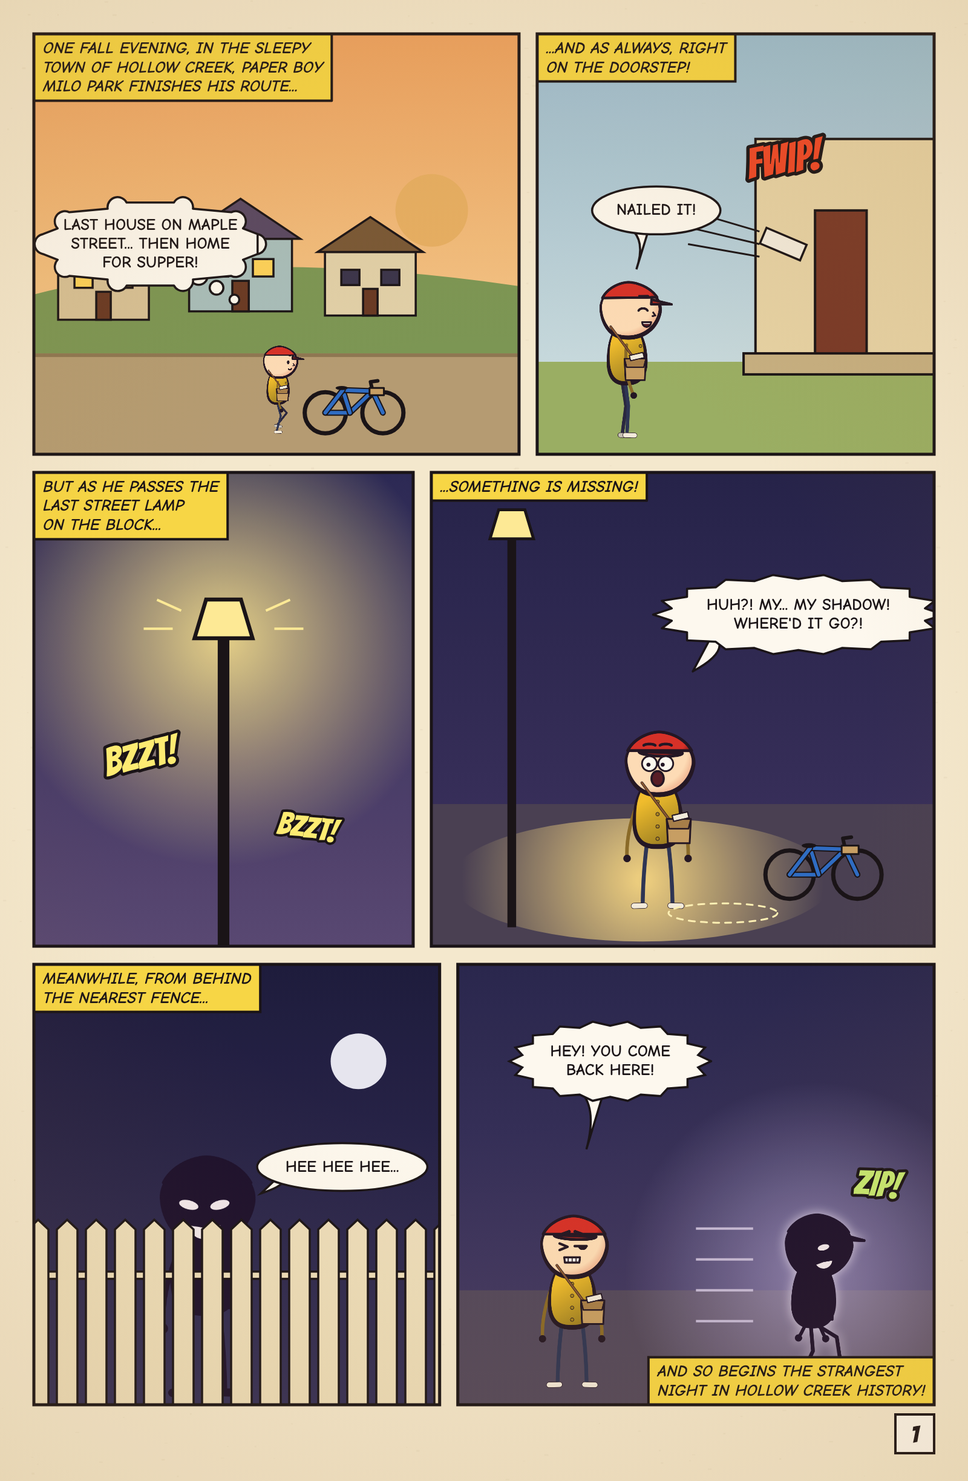
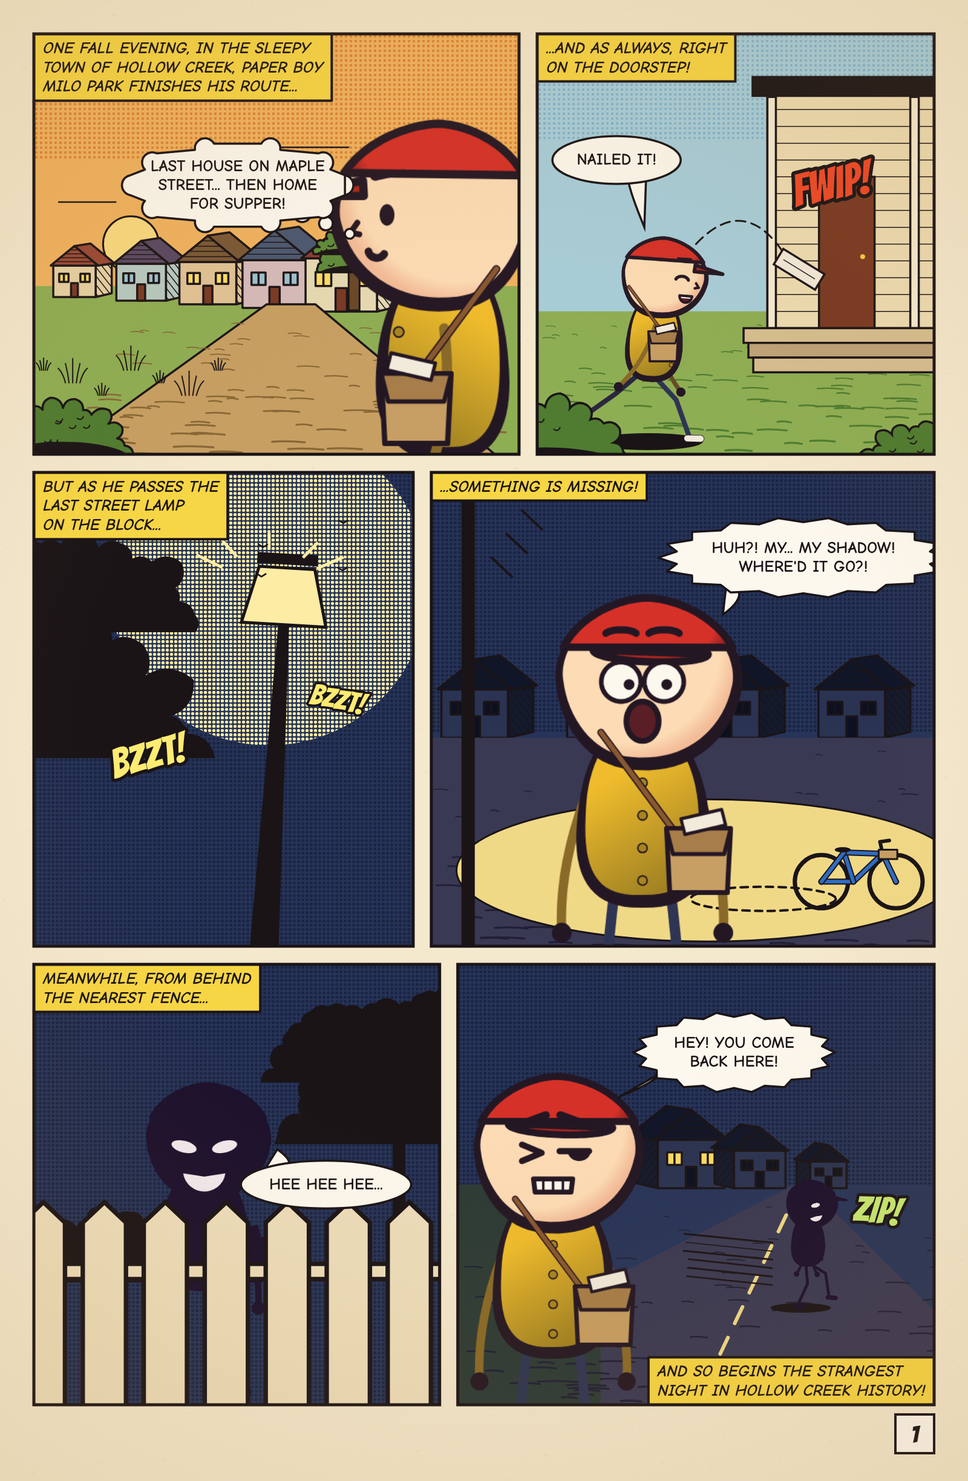
Page 1 redrawn in silver-age style: flat colour + Ben-Day tints, brush-inked ground, foliage, hatching, spotted blacks, varied shots
Claude-Session: https://claude.ai/code/session_01Q4bYRmYizte7uRdbGeQVkf

diff --git a/films/hollow-creek/page01.js b/films/hollow-creek/page01.js
@@ -1,77 +1,105 @@
 // PAGE 1: Milo finishes his route, the last street lamp flickers, his shadow is gone, it grins from behind a fence and runs.
-import { PAGE, INK, panelRect, paper, age, panel, caption, balloon, sfx, card, ground, sky, bike, house, lamp, fence, pageNumber } from './comic.js';
+// Silver-age rules (from the reference): flat colour + Ben-Day tints, no gradients; brush-inked ground, foliage clumps, hatched
+// shadow sides and spotted blacks; every panel a different shot (over-shoulder, medium, low angle, close-up, foreground
+// frame, deep street); figures big and cropped by the borders; captions flush top-left, balloons tight to the text.
+import { PAGE, INK, panelRect, paper, age, panel, caption, balloon, sfx, card, bike, lamp, fence, pageNumber,
+  benday, flat, hatch, brushGround, tuft, bush, tree, house2, spot, speed } from './comic.js';
 import { CAST, drawFront, drawSide, drawShadow, drawShadowSide } from './cast/cast.js';
 const M = CAST.milo;
+const NIGHT = '#27355f', NIGHT2 = '#1b2546';
 
 export const PANELS = [
-  // 1 (wide): establishing. Dusk on Maple Street, Milo walking his bike past the houses
+  // 1. OVER-THE-SHOULDER ESTABLISHING: huge Milo in the right foreground, back to us, looking down Maple Street at dusk
   (c, x, y, w, h, u) => {
-    sky(c, x, y, w, h, '#f0a868', '#f7d9a0');
-    c.fillStyle = '#e9b46a'; c.beginPath(); c.arc(x + w * 0.82, y + h * 0.42, 60 * u, 0, 6.283); c.fill();
-    c.fillStyle = '#7d9a5a'; c.beginPath(); c.moveTo(x, y + h * 0.62); c.quadraticCurveTo(x + w * 0.4, y + h * 0.5, x + w, y + h * 0.6); c.lineTo(x + w, y + h); c.lineTo(x, y + h); c.fill();
-    house(c, x + w * 0.05, y + h * 0.68, 150 * u, 110 * u, u, '#d9c7a0', '#9a4a3a');
-    house(c, x + w * 0.32, y + h * 0.66, 170 * u, 120 * u, u, '#a9c4c8', '#5a4a6a');
-    house(c, x + w * 0.6, y + h * 0.67, 150 * u, 105 * u, u, '#e3d6b4', '#7a5a3a', false);
-    ground(c, x, y, w, h, y + h * 0.76, '#b7a07a'); c.fillStyle = '#8f7a58'; c.fillRect(x, y + h * 0.76, w, 6 * u);
-    bike(c, x + w * 0.66, y + h * 0.95, 34 * u, u);
-    card(c, drawSide(M, { mode: 'march', phase: 0.25, expr: 'smile' }), x + w * 0.5, y + h * 0.95, 170 * u);
+    flat(c, x, y, w, h * 0.62, '#f2b866'); c.fillStyle = benday(c, '#e0883a', '#f2b866', 8, 2.2); c.fillRect(x, y, w, h * 0.3);   // dusk sky, tinted band
+    c.fillStyle = '#fbe08a'; c.beginPath(); c.arc(x + w * 0.2, y + h * 0.5, 46 * u, 0, 6.283); c.fill(); c.lineWidth = 3 * u; c.strokeStyle = INK; c.stroke();
+    c.lineWidth = 2.5 * u; for (const [a, b, l] of [[0.05, 0.4, 0.12], [0.5, 0.27, 0.15]]) { c.beginPath(); c.moveTo(x + w * a, y + h * b); c.lineTo(x + w * (a + l), y + h * b); c.stroke(); }   // cloud streaks
+    const hz = y + h * 0.6;
+    flat(c, x, hz, w, h - (hz - y), '#8fb35a');
+    for (let i = 0; i < 5; i++) house2(c, x + w * (0.04 + i * 0.13), hz + 18 * u + i * 6 * u, (70 + i * 12) * u, (52 + i * 9) * u, u, ['#e8d8b0', '#b9d0d0', '#e3c9a0', '#d8c0c8', '#e8e0c0'][i], ['#9a4a3a', '#5a4a6a', '#7a5a3a', '#4a5a7a', '#8a3a3a'][i], 1, i % 2 === 0);
+    tree(c, x + w * 0.66, hz + 40 * u, 150 * u, u, '#5f8f3e', 3);
+    c.fillStyle = '#c9a46a'; c.beginPath(); c.moveTo(x + w * 0.48, hz + 30 * u); c.lineTo(x + w * 0.58, hz + 30 * u); c.lineTo(x + w * 0.95, y + h); c.lineTo(x + w * 0.05, y + h); c.closePath(); c.fill(); c.lineWidth = 3.5 * u; c.strokeStyle = INK; c.stroke();   // the street running away
+    brushGround(c, x + w * 0.1, hz + 40 * u, w * 0.8, y + h, u, 11, '#8a6a3a');
+    for (let i = 0; i < 7; i++) tuft(c, x + w * (0.02 + i * 0.06), y + h * (0.8 + 0.03 * (i % 3)), 1 + (i % 2), u);
+    bush(c, x + w * 0.06, y + h * 1.0, 90 * u, u, '#4f7f34', 5);
+    card(c, drawSide(M, { mode: 'stand', expr: 'smile' }), x + w * 0.86, y + h * 1.42, 980 * u, true);   // cropped at the chest by the border
     caption(c, ['ONE FALL EVENING, IN THE SLEEPY', 'TOWN OF HOLLOW CREEK, PAPER BOY', 'MILO PARK FINISHES HIS ROUTE...'], x, y, w, h, u);
-    balloon(c, ['LAST HOUSE ON MAPLE', 'STREET... THEN HOME', 'FOR SUPPER!'], x + w * 0.24, y + h * 0.5, x + w * 0.45, y + h * 0.66, u, 'think');
+    balloon(c, ['LAST HOUSE ON MAPLE', 'STREET... THEN HOME', 'FOR SUPPER!'], x + w * 0.42, y + h * 0.36, x + w * 0.7, y + h * 0.5, u, 'think');
   },
-  // 2: the throw. A porch, the paper flying, FWIP!
+  // 2. MEDIUM, ACTION: Milo flings the paper across the lawn at a porch drawn in perspective; foreground bushes frame it
   (c, x, y, w, h, u) => {
-    sky(c, x, y, w, h, '#9cc3e0', '#d5e6ef'); ground(c, x, y, w, h, y + h * 0.78, '#9bb36a');
-    c.fillStyle = '#e8d8b0'; c.fillRect(x + w * 0.55, y + h * 0.25, w * 0.5, h * 0.55); c.lineWidth = 4 * u; c.strokeStyle = INK; c.strokeRect(x + w * 0.55, y + h * 0.25, w * 0.5, h * 0.55);
-    c.fillStyle = '#7a3a2a'; c.fillRect(x + w * 0.7, y + h * 0.42, w * 0.13, h * 0.38); c.strokeRect(x + w * 0.7, y + h * 0.42, w * 0.13, h * 0.38);
-    c.fillStyle = '#c8b48a'; c.fillRect(x + w * 0.52, y + h * 0.76, w * 0.5, h * 0.05); c.strokeRect(x + w * 0.52, y + h * 0.76, w * 0.5, h * 0.05);
-    card(c, drawSide(M, { mode: 'stand', expr: 'grin' }), x + w * 0.22, y + h * 0.96, 300 * u);
-    c.save(); c.translate(x + w * 0.62, y + h * 0.5); c.rotate(0.4); c.fillStyle = '#f4f1ea'; c.fillRect(-36 * u, -14 * u, 72 * u, 28 * u); c.lineWidth = 3.5 * u; c.strokeRect(-36 * u, -14 * u, 72 * u, 28 * u); c.restore();
-    c.lineWidth = 3 * u; for (let i = 0; i < 3; i++) { c.beginPath(); c.moveTo(x + w * 0.38, y + h * (0.42 + i * 0.04)); c.lineTo(x + w * 0.56, y + h * (0.47 + i * 0.03)); c.stroke(); }
-    sfx(c, 'FWIP!', x + w * 0.62, y + h * 0.3, 70 * u, '#f04a2a');
+    flat(c, x, y, w, h, '#a9d4ea'); c.fillStyle = benday(c, '#7fb8dc', '#a9d4ea', 8, 2); c.fillRect(x, y, w, h * 0.25);
+    flat(c, x, y + h * 0.66, w, h * 0.34, '#8fb35a'); brushGround(c, x, y + h * 0.68, w, y + h, u, 5, '#4f7f34');
+    const px = x + w * 0.58;   // porch: front face, posts, steps, door, a dark open doorway shadow
+    c.fillStyle = '#efe2bf'; c.fillRect(px, y + h * 0.14, w * 0.5, h * 0.56); c.lineWidth = 3.5 * u; c.strokeStyle = INK; c.strokeRect(px, y + h * 0.14, w * 0.5, h * 0.56);
+    c.save(); c.beginPath(); c.rect(px, y + h * 0.14, w * 0.5, h * 0.56); c.clip(); c.lineWidth = 1.5 * u; for (let i = 1; i < 14; i++) { c.beginPath(); c.moveTo(px, y + h * 0.14 + i * h * 0.04); c.lineTo(px + w * 0.5, y + h * 0.14 + i * h * 0.04); c.stroke(); } c.restore();   // clapboards
+    c.fillStyle = '#7a3a26'; c.fillRect(px + w * 0.13, y + h * 0.34, w * 0.14, h * 0.36); c.strokeRect(px + w * 0.13, y + h * 0.34, w * 0.14, h * 0.36); c.fillStyle = '#ffd04a'; c.beginPath(); c.arc(px + w * 0.24, y + h * 0.53, 4 * u, 0, 6.283); c.fill();
+    c.fillStyle = INK; c.fillRect(px - w * 0.04, y + h * 0.1, w * 0.6, h * 0.05);   // porch roof edge, black
+    for (const f of [0, 0.36]) { c.fillStyle = '#f8f2e0'; c.fillRect(px + w * f, y + h * 0.15, 14 * u, h * 0.55); c.strokeRect(px + w * f, y + h * 0.15, 14 * u, h * 0.55); }
+    for (let i = 0; i < 3; i++) { c.fillStyle = i % 2 ? '#bfa880' : '#d8c49a'; c.fillRect(px - w * 0.06 + i * 8 * u, y + h * (0.7 + i * 0.035), w * 0.6, h * 0.035); c.strokeRect(px - w * 0.06 + i * 8 * u, y + h * (0.7 + i * 0.035), w * 0.6, h * 0.035); }
+    spot(c, x + w * 0.28, y + h * 0.97, 90 * u, 14 * u);
+    card(c, drawSide(M, { mode: 'march', phase: 0.1, expr: 'grin' }), x + w * 0.28, y + h * 0.97, 420 * u);
+    c.save(); c.translate(x + w * 0.66, y + h * 0.56); c.rotate(0.55); c.fillStyle = '#f4f1ea'; c.fillRect(-40 * u, -15 * u, 80 * u, 30 * u); c.lineWidth = 3.5 * u; c.strokeRect(-40 * u, -15 * u, 80 * u, 30 * u); c.lineWidth = 1.5 * u; c.beginPath(); c.moveTo(-30 * u, 0); c.lineTo(30 * u, 0); c.stroke(); c.restore();
+    c.lineWidth = 3 * u; c.strokeStyle = INK; c.setLineDash([16 * u, 10 * u]); c.beginPath(); c.moveTo(x + w * 0.4, y + h * 0.5); c.quadraticCurveTo(x + w * 0.52, y + h * 0.38, x + w * 0.62, y + h * 0.52); c.stroke(); c.setLineDash([]);   // motion arc
+    bush(c, x + w * 0.02, y + h * 1.02, 110 * u, u, '#4f7f34', 8); bush(c, x + w * 0.96, y + h * 1.04, 80 * u, u, '#4f7f34', 13);
+    sfx(c, 'FWIP!', x + w * 0.74, y + h * 0.36, 74 * u, '#f04a2a', -0.2);
     caption(c, ['...AND AS ALWAYS, RIGHT', 'ON THE DOORSTEP!'], x, y, w, h, u, 'tl', 0.8);
-    balloon(c, ['NAILED IT!'], x + w * 0.3, y + h * 0.42, x + w * 0.25, y + h * 0.56, u);
+    balloon(c, ['NAILED IT!'], x + w * 0.2, y + h * 0.3, x + w * 0.27, y + h * 0.46, u);
   },
-  // 3 (narrow): the last street lamp flickers
+  // 3. LOW ANGLE: looking straight up the lamp post at night; moths, flicker strokes, black tree silhouettes framing
   (c, x, y, w, h, u) => {
-    sky(c, x, y, w, h, '#2c2a5a', '#5a4a7a');
-    const g = c.createRadialGradient(x + w * 0.5, y + h * 0.35, 10, x + w * 0.5, y + h * 0.35, w * 0.6); g.addColorStop(0, 'rgba(255,236,150,0.85)'); g.addColorStop(1, 'rgba(255,236,150,0)'); c.fillStyle = g; c.fillRect(x, y, w, h);
-    lamp(c, x + w * 0.5, y + h * 1.05, h * 0.7, u * 1.6);
-    c.lineWidth = 4 * u; c.strokeStyle = '#fff0a0'; for (const [a, b] of [[-1, -0.6], [1, -0.6], [-1.2, 0], [1.2, 0]]) { c.beginPath(); c.moveTo(x + w * 0.5 + a * 70 * u, y + h * 0.33 + b * 50 * u); c.lineTo(x + w * 0.5 + a * 110 * u, y + h * 0.33 + b * 80 * u); c.stroke(); }
-    sfx(c, 'BZZT!', x + w * 0.28, y + h * 0.6, 64 * u, '#fff27a', -0.2);
-    sfx(c, 'BZZT!', x + w * 0.72, y + h * 0.75, 52 * u, '#fff27a', 0.15);
+    flat(c, x, y, w, h, NIGHT); c.fillStyle = benday(c, NIGHT2, NIGHT, 7, 2.4); c.fillRect(x, y, w, h);
+    c.fillStyle = benday(c, '#fff3b0', NIGHT, 7, 2.6); c.beginPath(); c.arc(x + w * 0.62, y + h * 0.24, w * 0.42, 0, 6.283); c.fill();   // the glow, as a Ben-Day halo
+    c.save(); c.translate(x + w * 0.6, y + h * 1.1); c.rotate(0.06);   // the post converging upward
+    c.beginPath(); c.moveTo(-26 * u, 0); c.lineTo(-9 * u, -h * 0.78); c.lineTo(9 * u, -h * 0.78); c.lineTo(26 * u, 0); c.closePath(); c.fillStyle = INK; c.fill();
+    c.beginPath(); c.moveTo(-70 * u, -h * 0.78); c.lineTo(70 * u, -h * 0.78); c.lineTo(46 * u, -h * 0.9); c.lineTo(-46 * u, -h * 0.9); c.closePath(); c.fillStyle = '#fff3b0'; c.fill(); c.lineWidth = 5 * u; c.strokeStyle = INK; c.stroke();
+    c.fillStyle = INK; c.fillRect(-50 * u, -h * 0.93, 100 * u, 18 * u); c.restore();
+    c.strokeStyle = '#fff3b0'; c.lineWidth = 5 * u; for (const [a, l] of [[-2.6, 1], [-2.2, 0.8], [-0.5, 1], [-0.9, 0.8], [-1.57, 0.7]]) { const cx = x + w * 0.62, cy = y + h * 0.24; c.beginPath(); c.moveTo(cx + Math.cos(a) * 90 * u, cy + Math.sin(a) * 60 * u); c.lineTo(cx + Math.cos(a) * (90 + 50 * l) * u, cy + Math.sin(a) * (60 + 40 * l) * u); c.stroke(); }
+    for (let i = 0; i < 6; i++) { const mx = x + w * (0.35 + 0.5 * Math.sin(i * 2.1) * 0.5 + 0.25), my = y + h * (0.12 + 0.1 * Math.cos(i * 1.7)); c.strokeStyle = INK; c.lineWidth = 2.5 * u; c.beginPath(); c.moveTo(mx - 8 * u, my - 5 * u); c.lineTo(mx, my); c.lineTo(mx + 8 * u, my - 5 * u); c.stroke(); }   // moths
+    tree(c, x - w * 0.02, y + h * 1.0, h * 0.95, u, INK, 21, true);
+    sfx(c, 'BZZT!', x + w * 0.3, y + h * 0.6, 66 * u, '#fff27a', -0.25);
+    sfx(c, 'BZZT!', x + w * 0.8, y + h * 0.48, 48 * u, '#fff27a', 0.2);
     caption(c, ['BUT AS HE PASSES THE', 'LAST STREET LAMP', 'ON THE BLOCK...'], x, y, w, h, u, 'tl', 0.9);
   },
-  // 4 (wide): the missing shadow. Milo in the lamp pool, nothing on the ground behind him
+  // 4. CLOSE-UP, THE REVEAL: Milo big, cropped at the knees, staring down; the lamp pool behind him is empty
   (c, x, y, w, h, u) => {
-    sky(c, x, y, w, h, '#26244e', '#3e3466'); ground(c, x, y, w, h, y + h * 0.7, '#4a4258');
-    const g = c.createRadialGradient(x + w * 0.42, y + h * 0.86, 10, x + w * 0.42, y + h * 0.86, w * 0.36); g.addColorStop(0, 'rgba(255,226,140,0.9)'); g.addColorStop(1, 'rgba(255,226,140,0)');
-    c.fillStyle = g; c.beginPath(); c.ellipse(x + w * 0.42, y + h * 0.86, w * 0.38, h * 0.13, 0, 0, 6.283); c.fill();
-    lamp(c, x + w * 0.16, y + h * 0.96, h * 0.82, u * 1.2);
-    bike(c, x + w * 0.78, y + h * 0.9, 40 * u, u);
-    card(c, drawFront(M, { expr: 'shock', look: -1 }), x + w * 0.45, y + h * 0.92, 340 * u);
-    c.setLineDash([10 * u, 10 * u]); c.lineWidth = 3 * u; c.strokeStyle = '#fff6c0'; c.beginPath(); c.ellipse(x + w * 0.58, y + h * 0.93, 90 * u, 16 * u, 0, 0, 6.283); c.stroke(); c.setLineDash([]);   // where the shadow should be
+    flat(c, x, y, w, h, NIGHT); c.fillStyle = benday(c, NIGHT2, NIGHT, 7, 2.4); c.fillRect(x, y, w, h * 0.55);
+    for (let i = 0; i < 4; i++) house2(c, x + w * (0.02 + i * 0.25), y + h * 0.56, 110 * u, 80 * u, u, '#2a3458', '#10152a', 1, i === 1, true);
+    flat(c, x, y + h * 0.56, w, h * 0.44, '#3a3a5a'); brushGround(c, x, y + h * 0.58, w, y + h, u, 21, '#20203a');
+    c.fillStyle = '#f2df90'; c.beginPath(); c.ellipse(x + w * 0.55, y + h * 0.84, w * 0.5, h * 0.15, 0, 0, 6.283); c.fill(); c.lineWidth = 3 * u; c.strokeStyle = INK; c.stroke();   // the lamp pool, flat
+    c.fillStyle = INK; c.fillRect(x + w * 0.06, y, 22 * u, h);   // the lamp post, foreground left
+    bike(c, x + w * 0.85, y + h * 0.92, 44 * u, u);
+    c.save(); c.setLineDash([12 * u, 9 * u]); c.lineWidth = 4 * u; c.strokeStyle = INK; c.beginPath(); c.ellipse(x + w * 0.66, y + h * 0.9, 120 * u, 20 * u, 0, 0, 6.283); c.stroke(); c.restore();   // where his shadow should be
+    card(c, drawFront(M, { expr: 'shock', look: 1 }), x + w * 0.42, y + h * 1.25, 900 * u);
+    for (let i = 0; i < 3; i++) { c.lineWidth = 4 * u; c.strokeStyle = INK; c.beginPath(); c.moveTo(x + w * (0.22 - i * 0.03), y + h * (0.12 + i * 0.05)); c.lineTo(x + w * (0.18 - i * 0.03), y + h * (0.08 + i * 0.05)); c.stroke(); }   // shock ticks
     caption(c, ['...SOMETHING IS MISSING!'], x, y, w, h, u, 'tl');
-    balloon(c, ['HUH?! MY... MY SHADOW!', "WHERE'D IT GO?!"], x + w * 0.73, y + h * 0.3, x + w * 0.52, y + h * 0.42, u, 'shout');
+    balloon(c, ['HUH?! MY... MY SHADOW!', "WHERE'D IT GO?!"], x + w * 0.74, y + h * 0.18, x + w * 0.58, y + h * 0.3, u, 'shout');
   },
-  // 5: behind the picket fence, the Shadow peeks and grins
+  // 5. FOREGROUND FRAME: big pickets cut the panel; between them, close, the Shadow's grin under a flat moon
   (c, x, y, w, h, u) => {
-    sky(c, x, y, w, h, '#1e1c40', '#34305e');
-    c.fillStyle = '#e8ecff'; c.beginPath(); c.arc(x + w * 0.8, y + h * 0.22, 46 * u, 0, 6.283); c.fill();
-    card(c, drawShadow(), x + w * 0.42, y + h * 0.98, 460 * u);
-    fence(c, x - 10 * u, x + w + 10 * u, y + h, h * 0.42, u);
+    flat(c, x, y, w, h, NIGHT); c.fillStyle = benday(c, NIGHT2, NIGHT, 7, 2.4); c.fillRect(x, y, w, h);
+    c.fillStyle = '#f4f0d0'; c.beginPath(); c.arc(x + w * 0.78, y + h * 0.24, 56 * u, 0, 6.283); c.fill(); c.lineWidth = 3 * u; c.strokeStyle = INK; c.stroke();
+    tree(c, x + w * 0.9, y + h * 0.7, h * 0.7, u, INK, 30, true); bush(c, x + w * 0.2, y + h * 0.72, 120 * u, u, INK, 31);
+    card(c, drawShadow(), x + w * 0.42, y + h * 0.98, 600 * u);
+    fence(c, x - 20 * u, x + w + 20 * u, y + h * 1.04, h * 0.5, u * 2.1, '#efe4c8');
     caption(c, ['MEANWHILE, FROM BEHIND', 'THE NEAREST FENCE...'], x, y, w, h, u, 'tl', 0.8);
-    balloon(c, ['HEE HEE HEE...'], x + w * 0.76, y + h * 0.46, x + w * 0.56, y + h * 0.52, u);
+    balloon(c, ['HEE HEE HEE...'], x + w * 0.72, y + h * 0.5, x + w * 0.6, y + h * 0.42, u);
   },
-  // 6: the chase begins. The Shadow runs off screen-right, Milo shouts after it
+  // 6. DEEP STREET, THE CHASE: Milo shouting in the left foreground, the Shadow racing away down the street with speed lines
   (c, x, y, w, h, u) => {
-    sky(c, x, y, w, h, '#2a2852', '#463c6e'); ground(c, x, y, w, h, y + h * 0.74, '#544a62');
-    const gl = c.createRadialGradient(x + w * 0.75, y + h * 0.7, 10, x + w * 0.75, y + h * 0.7, w * 0.4); gl.addColorStop(0, 'rgba(200,190,255,0.55)'); gl.addColorStop(1, 'rgba(200,190,255,0)'); c.fillStyle = gl; c.fillRect(x, y, w, h);
-    c.lineWidth = 4 * u; c.strokeStyle = '#c8c0e8'; for (let i = 0; i < 4; i++) { c.beginPath(); c.moveTo(x + w * 0.5, y + h * (0.6 + i * 0.07)); c.lineTo(x + w * 0.62, y + h * (0.6 + i * 0.07)); c.stroke(); }
-    c.save(); c.shadowColor = 'rgba(230,225,255,0.9)'; c.shadowBlur = 18 * u; card(c, drawShadowSide({ phase: 0.3 }), x + w * 0.74, y + h * 0.95, 330 * u); c.restore();
-    card(c, drawFront(M, { expr: 'pained', look: 1 }), x + w * 0.24, y + h * 0.96, 330 * u);
-    sfx(c, 'ZIP!', x + w * 0.88, y + h * 0.5, 60 * u, '#c9f07a', 0.1);
+    flat(c, x, y, w, h, NIGHT); c.fillStyle = benday(c, NIGHT2, NIGHT, 7, 2.4); c.fillRect(x, y, w, h * 0.5);
+    const vx = x + w * 0.72, vy = y + h * 0.5;   // vanishing point
+    for (let i = 0; i < 3; i++) house2(c, x + w * (0.42 + i * 0.16), vy + 6 * u, (110 - i * 25) * u, (80 - i * 18) * u, u, '#2a3458', '#10152a', -1, i === 0, true);
+    c.fillStyle = '#3a3a5a'; c.beginPath(); c.moveTo(vx - 10 * u, vy); c.lineTo(vx + 10 * u, vy); c.lineTo(x + w * 1.2, y + h); c.lineTo(x - w * 0.2, y + h); c.closePath(); c.fill();
+    flat(c, x, vy, w * 0.3, h * 0.5, '#2c3c3a'); brushGround(c, x, vy + 10 * u, w, y + h, u, 41, '#20203a');
+    c.strokeStyle = '#f2df90'; c.lineWidth = 6 * u; c.setLineDash([30 * u, 26 * u]); c.beginPath(); c.moveTo(vx, vy); c.lineTo(x + w * 0.5, y + h); c.stroke(); c.setLineDash([]);   // centre line
+    speed(c, x + w * 0.46, y + h * 0.66, x + w * 0.66, y + h * 0.68, 6, 14, u);
+    spot(c, x + w * 0.72, y + h * 0.78, 50 * u, 8 * u);
+    card(c, drawShadowSide({ phase: 0.3 }), x + w * 0.73, y + h * 0.78, 250 * u);
+    card(c, drawFront(M, { expr: 'pained', look: 1 }), x + w * 0.2, y + h * 1.22, 820 * u);
+    sfx(c, 'ZIP!', x + w * 0.88, y + h * 0.56, 62 * u, '#c9f07a', 0.1);
     caption(c, ['AND SO BEGINS THE STRANGEST', 'NIGHT IN HOLLOW CREEK HISTORY!'], x, y, w, h, u, 'br', 0.9);
-    balloon(c, ['HEY! YOU COME', 'BACK HERE!'], x + w * 0.32, y + h * 0.22, x + w * 0.27, y + h * 0.42, u, 'shout');
+    balloon(c, ['HEY! YOU COME', 'BACK HERE!'], x + w * 0.58, y + h * 0.2, x + w * 0.34, y + h * 0.3, u, 'shout');
   },
 ];
 // one panel at any size (used for the hi-res plane the camera pushes into)

diff --git a/films/hollow-creek/comic.js b/films/hollow-creek/comic.js
@@ -96,3 +96,62 @@ export function pageNumber(c, n, W, H) {
   const s = 64; c.fillStyle = '#fff'; c.fillRect(W - PAGE.m - s, H - PAGE.m - s + 10, s, s); c.lineWidth = 4; c.strokeStyle = INK; c.strokeRect(W - PAGE.m - s, H - PAGE.m - s + 10, s, s);
   c.font = '40px Bangers'; c.fillStyle = INK; c.textAlign = 'center'; c.textBaseline = 'middle'; c.fillText(String(n), W - PAGE.m - s / 2, H - PAGE.m - s / 2 + 12);
 }
+
+// ======== silver-age inking kit: flat colour, Ben-Day tints, brush texture, spotted blacks (no gradients, no glows) ========
+const patCache = new Map();
+// Ben-Day tint: dots of `col` on `bg`, a fixed screen like a 1960s colour separation
+export function benday(c, col, bg, step = 7, r = 1.6) {
+  const key = col + bg + step + r; if (patCache.has(key)) return patCache.get(key);
+  const t = Object.assign(document.createElement('canvas'), { width: step * 2, height: step * 2 }), g = t.getContext('2d');
+  g.fillStyle = bg; g.fillRect(0, 0, step * 2, step * 2); g.fillStyle = col;
+  for (const [x, y] of [[step / 2, step / 2], [step * 1.5, step * 1.5], [step * 1.5, step / 2 - step], [step / 2, step * 1.5]]) { g.beginPath(); g.arc(x, y, r, 0, 6.283); g.fill(); }
+  g.beginPath(); g.arc(step * 1.5, step / 2, r, 0, 6.283); g.fill(); g.beginPath(); g.arc(step / 2, step * 1.5, r, 0, 6.283); g.fill();
+  const p = c.createPattern(t, 'repeat'); patCache.set(key, p); return p;
+}
+export function flat(c, x, y, w, h, col) { c.fillStyle = col; c.fillRect(x, y, w, h); }
+// parallel ink hatching inside a rectangle (shadow sides, skies, dusk)
+export function hatch(c, x, y, w, h, u, ang = -0.6, gap = 12, lw = 2) {
+  c.save(); c.beginPath(); c.rect(x, y, w, h); c.clip(); c.strokeStyle = INK; c.lineWidth = lw * u; c.lineCap = 'round';
+  const d = Math.hypot(w, h), cx = x + w / 2, cy = y + h / 2, ca = Math.cos(ang), sa = Math.sin(ang);
+  for (let k = -d; k < d; k += gap * u) { c.beginPath(); c.moveTo(cx - ca * d - sa * k, cy - sa * d + ca * k); c.lineTo(cx + ca * d - sa * k, cy + sa * d + ca * k); c.stroke(); }
+  c.restore();
+}
+// brush dashes on a ground plane, longer and denser towards the viewer: reads as earth/asphalt with perspective
+export function brushGround(c, x, y0, w, y1, u, seed = 1, col = INK) {
+  c.strokeStyle = col; c.lineCap = 'round';
+  for (let i = 0; i < 90; i++) {
+    const k = hh(seed * 31 + i), yy = y0 + (y1 - y0) * Math.pow(hh(seed * 17 + i), 0.7), near = (yy - y0) / (y1 - y0 + 1e-6);
+    const len = (10 + 40 * near) * u * (0.5 + k), xx = x + hh(seed * 7 + i) * w; c.lineWidth = (1.2 + 2.2 * near) * u;
+    c.beginPath(); c.moveTo(xx, yy); c.quadraticCurveTo(xx + len / 2, yy - 2 * u, xx + len, yy + 1 * u); c.stroke();
+  }
+}
+export function tuft(c, x, y, s, u) { c.strokeStyle = INK; c.lineWidth = 2 * u; c.lineCap = 'round'; for (let i = -2; i <= 2; i++) { c.beginPath(); c.moveTo(x + i * 3 * s * u, y); c.quadraticCurveTo(x + i * 4 * s * u, y - 8 * s * u, x + i * 6 * s * u, y - (12 + 4 * (2 - Math.abs(i))) * s * u); c.stroke(); } }
+// foliage clump: scalloped ink outline, flat fill, inner flicks, a spotted-black underside
+export function bush(c, x, y, r, u, col = '#5f8f3e', seed = 1) {
+  const pts = []; for (let i = 0; i <= 18; i++) { const a = Math.PI + i / 18 * Math.PI, rr = r * (0.82 + 0.25 * hh(seed + i)); pts.push([x + Math.cos(a) * rr * 1.25, y + Math.sin(a) * rr]); }
+  c.beginPath(); c.moveTo(x - r * 1.25, y); for (let i = 1; i < pts.length; i++) { const [px, py] = pts[i - 1], [qx, qy] = pts[i]; c.quadraticCurveTo((px + qx) / 2 + (qy - py) * 0.4, (py + qy) / 2 - (qx - px) * 0.4, qx, qy); } c.closePath();
+  c.fillStyle = col; c.fill(); c.lineWidth = 3.5 * u; c.strokeStyle = INK; c.stroke();
+  c.save(); c.clip(); c.fillStyle = INK; c.beginPath(); c.ellipse(x, y + r * 0.15, r * 1.3, r * 0.38, 0, 0, 6.283); c.fill();
+  c.lineWidth = 2 * u; for (let i = 0; i < 9; i++) { const a = Math.PI * (1.1 + 0.8 * hh(seed + 40 + i)), rr = r * (0.3 + 0.5 * hh(seed + 60 + i)); const px = x + Math.cos(a) * rr * 1.2, py = y + Math.sin(a) * rr; c.beginPath(); c.arc(px, py, 6 * u, 0.2, 2.4); c.stroke(); }
+  c.restore();
+}
+export function tree(c, x, gy, h, u, col = '#5f8f3e', seed = 1, night = false) {
+  c.fillStyle = night ? INK : '#6a4a2a'; c.fillRect(x - 9 * u, gy - h * 0.45, 18 * u, h * 0.45); c.lineWidth = 3 * u; c.strokeStyle = INK; c.strokeRect(x - 9 * u, gy - h * 0.45, 18 * u, h * 0.45);
+  bush(c, x, gy - h * 0.42, h * 0.32, u, night ? INK : col, seed); bush(c, x - h * 0.12, gy - h * 0.62, h * 0.26, u, night ? INK : col, seed + 9); bush(c, x + h * 0.12, gy - h * 0.7, h * 0.22, u, night ? INK : col, seed + 19);
+}
+// a house in 2-point-ish view: lit front face, hatched side face, shingle lines, flat colour windows
+export function house2(c, x, gy, w, h, u, wall, roof, side = 1, lit = true, night = false) {
+  const d = w * 0.38 * side, sw = night ? '#1c2440' : wall;
+  c.lineWidth = 3.5 * u; c.strokeStyle = INK; c.lineJoin = 'round';
+  c.beginPath(); c.moveTo(x + (side > 0 ? w : 0), gy); c.lineTo(x + (side > 0 ? w : 0) + d, gy - h * 0.12); c.lineTo(x + (side > 0 ? w : 0) + d, gy - h * 1.05); c.lineTo(x + (side > 0 ? w : 0), gy - h); c.closePath(); c.fillStyle = night ? '#141a30' : wall; c.fill(); c.stroke();
+  c.save(); c.clip(); hatch(c, x - w, gy - h * 1.2, w * 3, h * 1.3, u, side > 0 ? 0.9 : -0.9, 9, 1.6); c.restore();
+  c.fillStyle = night ? '#2a3458' : wall; c.fillRect(x, gy - h, w, h); c.strokeRect(x, gy - h, w, h);
+  c.beginPath(); c.moveTo(x - w * 0.06, gy - h); c.lineTo(x + w / 2, gy - h * 1.62); c.lineTo(x + w * 1.06, gy - h); c.closePath(); c.fillStyle = night ? '#10152a' : roof; c.fill(); c.stroke();
+  c.beginPath(); c.moveTo(x + w / 2, gy - h * 1.62); c.lineTo(x + w / 2 + d, gy - h * 1.7); c.lineTo(x + (side > 0 ? w * 1.06 : -w * 0.06) + d, gy - h * 1.08); c.lineTo(x + (side > 0 ? w * 1.06 : -w * 0.06), gy - h); c.closePath(); c.fill(); c.stroke();
+  c.save(); c.lineWidth = 1.5 * u; for (let i = 1; i < 5; i++) { const yy = gy - h - h * 0.62 * i / 5; c.beginPath(); c.moveTo(x + w / 2 - (w * 0.56) * (1 - i / 5), yy); c.lineTo(x + w / 2 + (w * 0.56) * (1 - i / 5), yy); c.stroke(); } c.restore();
+  for (const f of [0.14, 0.64]) { c.fillStyle = lit ? '#ffe36a' : night ? '#0c1022' : '#9cc8e0'; c.fillRect(x + w * f, gy - h * 0.74, w * 0.22, h * 0.26); c.strokeRect(x + w * f, gy - h * 0.74, w * 0.22, h * 0.26); c.beginPath(); c.moveTo(x + w * (f + 0.11), gy - h * 0.74); c.lineTo(x + w * (f + 0.11), gy - h * 0.48); c.stroke(); }
+  c.fillStyle = night ? '#0c1022' : '#7a3a26'; c.fillRect(x + w * 0.42, gy - h * 0.44, w * 0.16, h * 0.44); c.strokeRect(x + w * 0.42, gy - h * 0.44, w * 0.16, h * 0.44);
+}
+// solid black cast shadow under a figure (the silver-age "spot")
+export function spot(c, x, y, rx, ry) { c.fillStyle = INK; c.beginPath(); c.ellipse(x, y, rx, ry, 0, 0, 6.283); c.fill(); }
+export function speed(c, x0, y0, x1, y1, n, spread, u) { c.strokeStyle = INK; c.lineCap = 'round'; for (let i = 0; i < n; i++) { const o = (i - (n - 1) / 2) * spread * u; c.lineWidth = (1.5 + hh(i) * 2) * u; c.beginPath(); c.moveTo(x0 + hh(i + 3) * 20 * u, y0 + o); c.lineTo(x1, y1 + o); c.stroke(); } }
